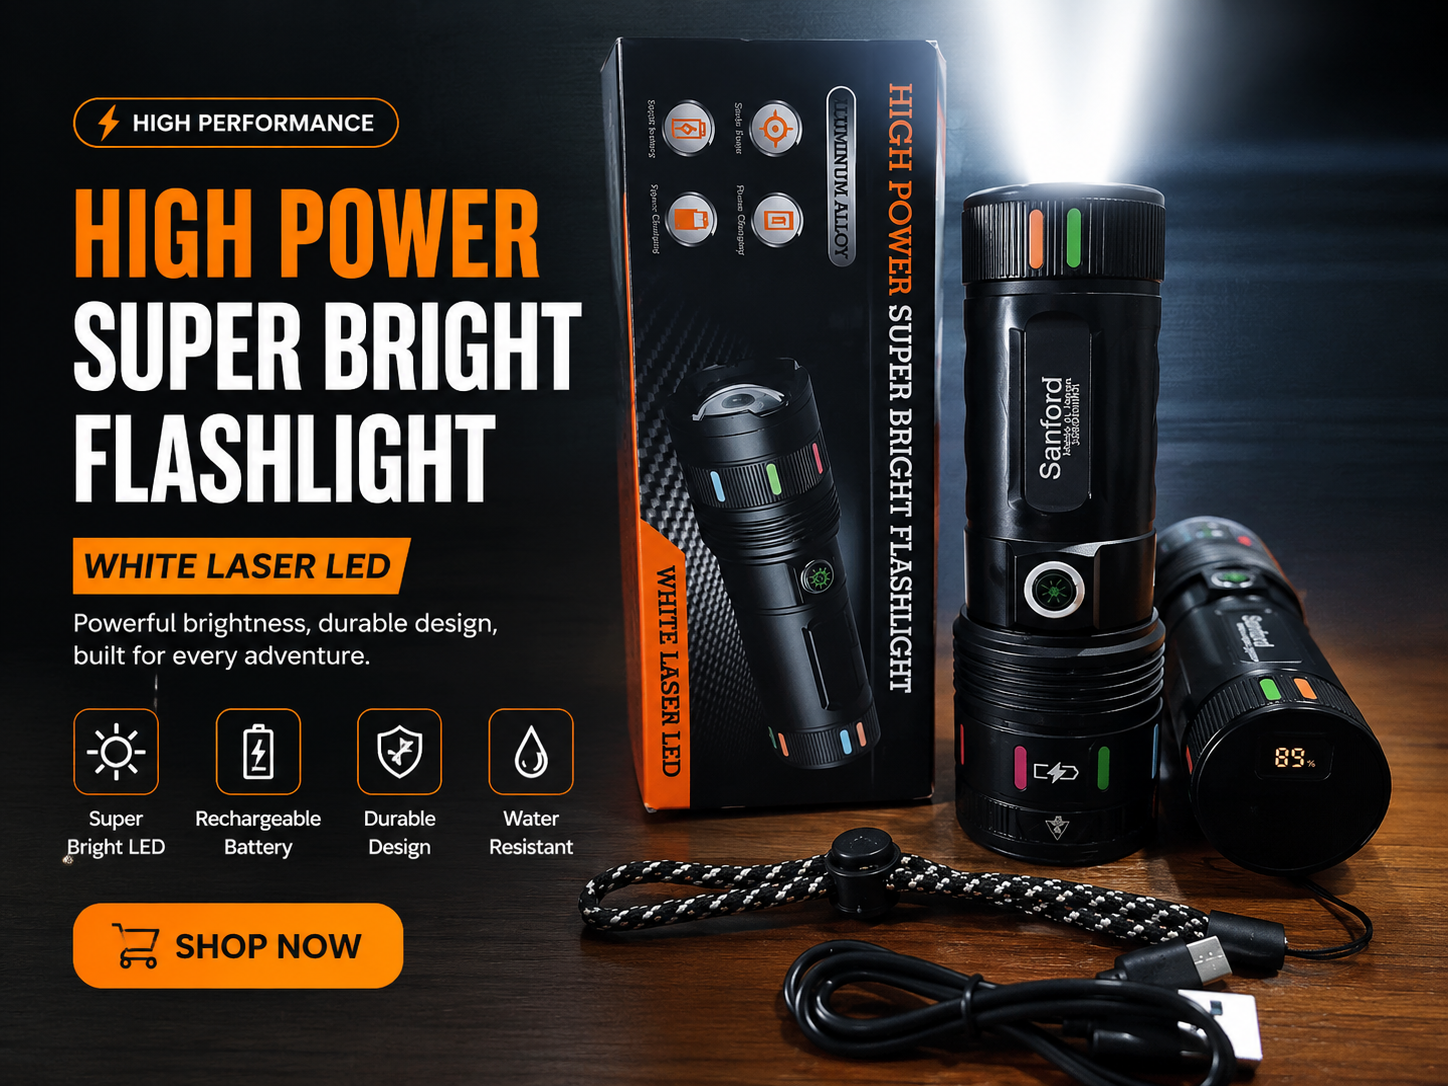
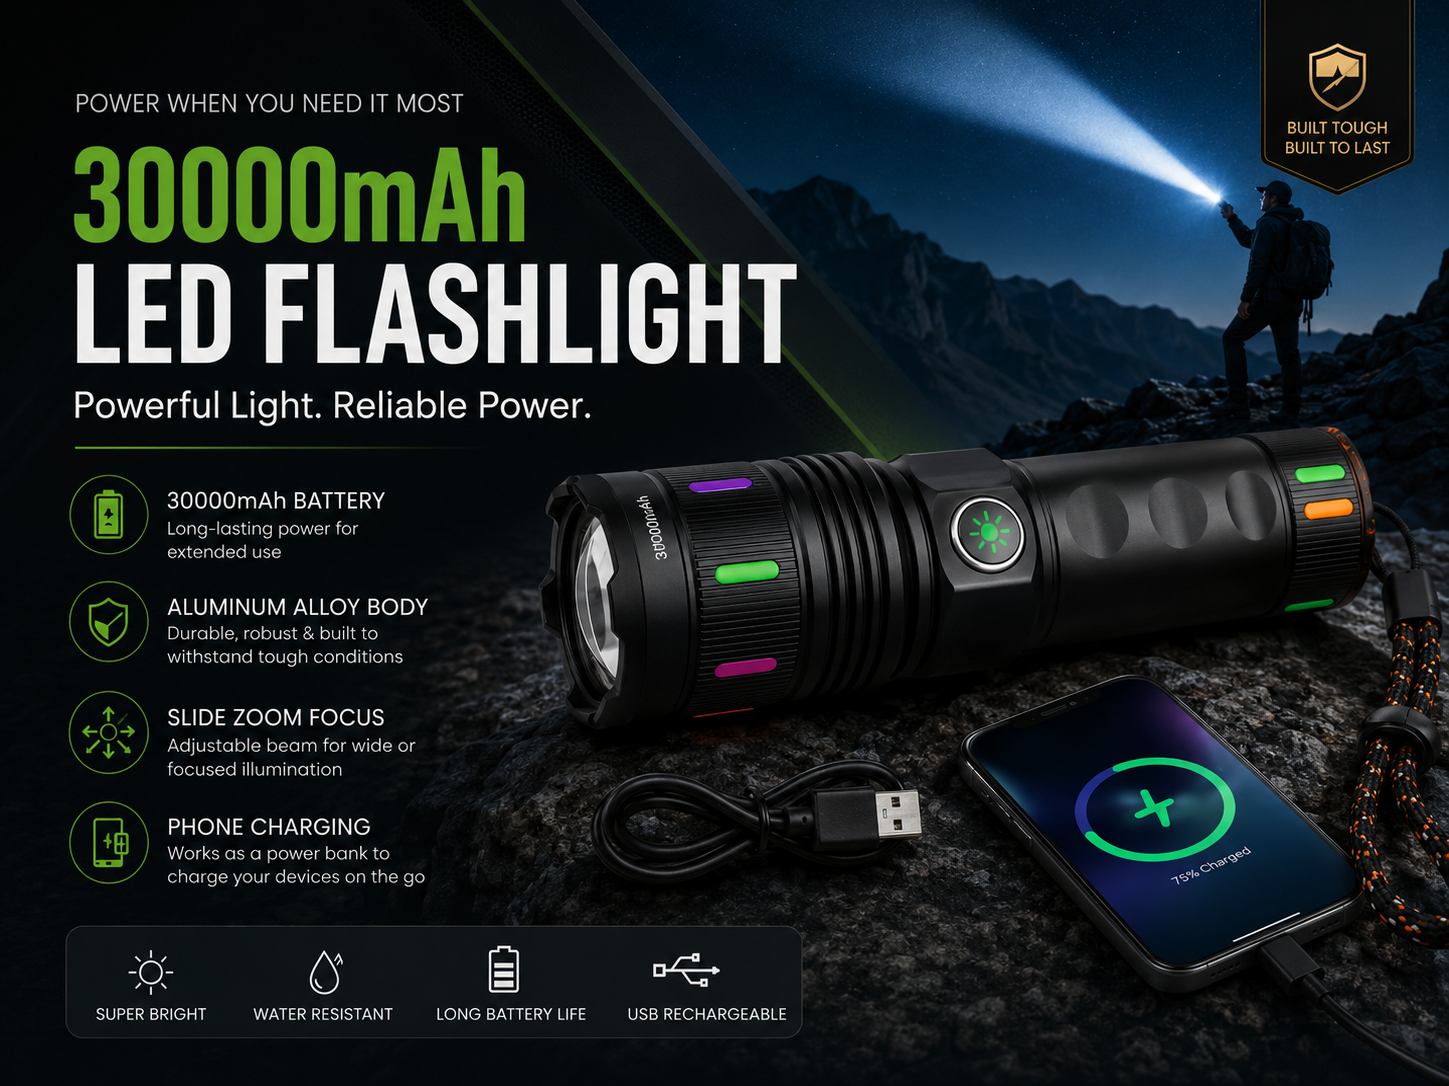
update

diff --git a/css/styles.css b/css/styles.css
@@ -188,19 +188,27 @@ h1,h2,h3,h4{font-family:'Poppins',sans-serif;line-height:1.15;color:var(--navy)}
 .img-fallback__label{display:none;position:absolute;font-size:.8rem;color:var(--teal-deep);font-weight:700;background:#fff;padding:.3rem .7rem;border-radius:8px;box-shadow:var(--shadow-sm)}
 .img-fallback .img-fallback__label{display:inline-block}
 
-/* ---------- Auto-swipe carousel ---------- */
+/* ---------- Auto-swipe carousel (squeeze transition) ---------- */
 .carousel{position:relative;width:100%;overflow:hidden}
-.carousel__track{display:flex;transition:transform .6s ease}
-.carousel__slide{min-width:100%;width:100%;display:block;object-fit:cover}
+.carousel__track{position:relative;width:100%;height:100%}
+.carousel__slide{position:absolute;inset:0;width:100%;height:100%;display:block;object-fit:cover;opacity:0;transform:scaleX(0);transform-origin:center center;transition:transform .55s cubic-bezier(.65,0,.35,1),opacity .45s ease}
+.carousel__slide.is-active{opacity:1;transform:scaleX(1);z-index:1}
 .carousel__dots{position:absolute;left:0;right:0;bottom:14px;display:flex;gap:7px;justify-content:center;z-index:2}
 .carousel__dot{width:9px;height:9px;padding:0;border:none;border-radius:999px;background:rgba(255,255,255,.6);box-shadow:0 1px 3px rgba(0,0,0,.35);cursor:pointer;transition:width .3s,background .3s}
 .carousel__dot.is-active{width:24px;background:#fff}
 
 /* full-width hero carousel — full image, no crop, all slides equal size */
-.hero-carousel{width:100%;border-radius:var(--radius);overflow:hidden;box-shadow:var(--shadow-lg);border:1px solid var(--line);margin-top:1.6rem}
-.hero-carousel .carousel{aspect-ratio:4/3}
+.hero-carousel{width:100%;border-radius:var(--radius);overflow:hidden;box-shadow:var(--shadow-lg);border:1px solid var(--line);margin-top:1.6rem;background:#101014}
+.hero-carousel .carousel{aspect-ratio:4/3;background:#101014}
 .hero-carousel .carousel__track{height:100%}
-.hero-carousel .carousel__slide{height:100%;object-fit:contain;background:#f6ede8}
+.hero-carousel .carousel__slide{height:100%;object-fit:contain;background:#101014}
+
+/* carousel arrows */
+.carousel__arrow{position:absolute;top:50%;transform:translateY(-50%);z-index:3;width:44px;height:44px;padding:0 0 3px;border:none;border-radius:50%;background:rgba(255,255,255,.85);color:#1a1a1a;font-size:1.7rem;line-height:1;display:grid;place-items:center;cursor:pointer;box-shadow:0 2px 10px rgba(0,0,0,.25);transition:background .2s,transform .2s}
+.carousel__arrow:hover{background:#fff;transform:translateY(-50%) scale(1.08)}
+.carousel__arrow--prev{left:14px}
+.carousel__arrow--next{right:14px}
+@media(max-width:520px){.carousel__arrow{width:36px;height:36px;font-size:1.35rem}.carousel__arrow--prev{left:8px}.carousel__arrow--next{right:8px}}
 .hero__inner--solo{grid-template-columns:1fr}
 .hero__inner--solo .hero__copy{text-align:center;max-width:760px;margin:0 auto}
 .hero__inner--solo .hero__cta,.hero__inner--solo .hero__stats{justify-content:center}

diff --git a/js/script.js b/js/script.js
@@ -121,9 +121,12 @@
     }
     const dots = dotsWrap ? [...dotsWrap.children] : [];
 
+    // squeeze transition: only the active slide is shown
+    slides.forEach((s, i) => s.classList.toggle('is-active', i === 0));
+
     const go = (n, user) => {
       idx = (n + slides.length) % slides.length;
-      track.style.transform = 'translateX(' + -idx * 100 + '%)';
+      slides.forEach((s, i) => s.classList.toggle('is-active', i === idx));
       dots.forEach((d, i) => d.classList.toggle('is-active', i === idx));
       if (user) restart();
     };
@@ -133,6 +136,12 @@
       clearInterval(timer);
       timer = setInterval(() => go(idx + 1), interval);
     };
+
+    // prev / next arrows
+    const prevBtn = root.querySelector('.carousel__arrow--prev');
+    const nextBtn = root.querySelector('.carousel__arrow--next');
+    if (prevBtn) prevBtn.addEventListener('click', () => go(idx - 1, true));
+    if (nextBtn) nextBtn.addEventListener('click', () => go(idx + 1, true));
 
     // pause while hovering
     root.addEventListener('mouseenter', () => clearInterval(timer));

diff --git a/index.html b/index.html
@@ -139,6 +139,8 @@
             <img class="carousel__slide" src="assets/carousel-2.png" alt="৩০,০০০mAh রিচার্জেবল ব্যাটারি ও পাওয়ার ব্যাংক" />
             <img class="carousel__slide" src="assets/carousel-3.png" alt="৫টি লাইটিং মোড ও ২ কিমি আলোর ফোকাস" />
           </div>
+          <button class="carousel__arrow carousel__arrow--prev" type="button" aria-label="আগের ছবি">‹</button>
+          <button class="carousel__arrow carousel__arrow--next" type="button" aria-label="পরের ছবি">›</button>
           <div class="carousel__dots"></div>
         </div>
       </div>